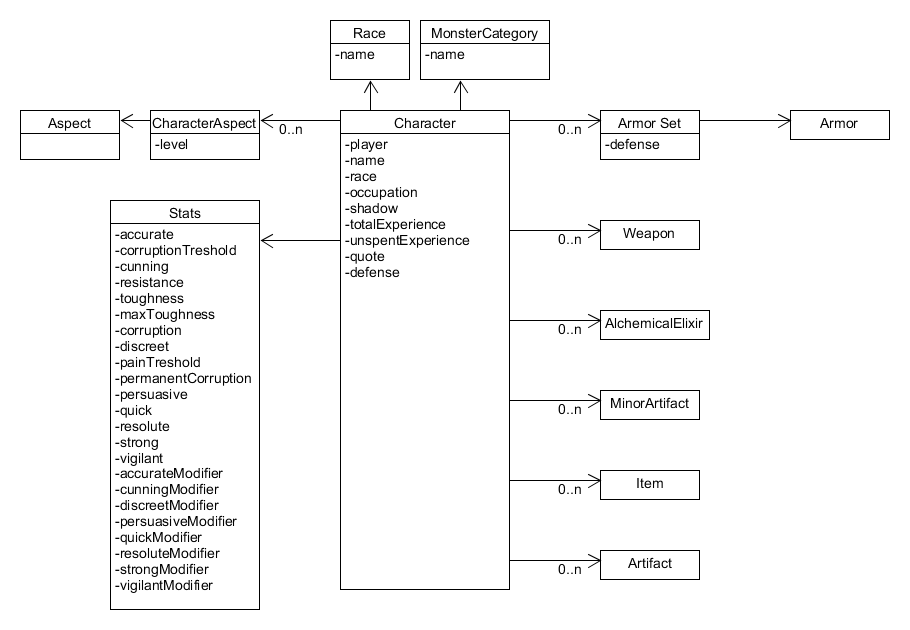
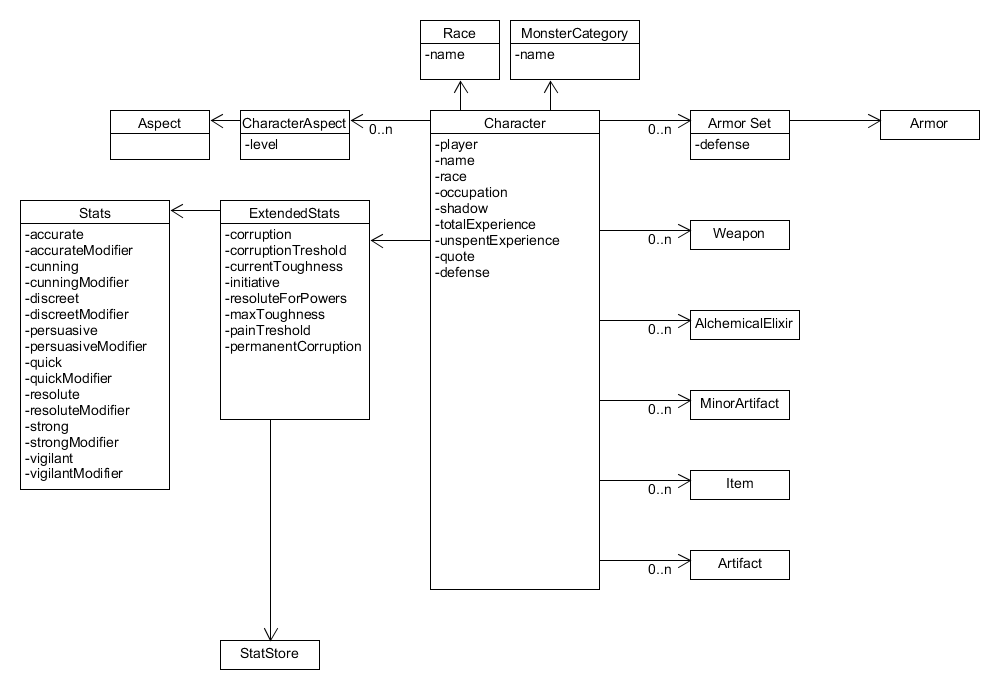
Updated stats docs

diff --git a/character/stats.md b/character/stats.md
@@ -43,19 +43,9 @@ Defense may be modified by more things than the armor, for example the robust tr
 
 These are the modifiers calculated from attributes.
 
-## Corruption
-
-* Permanent corruption
-
 ## Additional Stats
 
 These are not commented among the main attributes, but still are so important that all characters have it.
-
-### Armor
-
-The armor value depends on the armor used. But there are several sources for armor, such as traits, which can stack.
-
-Some of these sources are not real armor. For example robust ignores damage.
 
 ### Resolute for Powers
 
@@ -74,9 +64,21 @@ The following stats can be "spent", meaning they can have a maximum and a curren
 
 By default quick is used for initiative.
 
+### Corruption
+
+* Permanent corruption
+
 ## Dynamic Stats
 
 These depend on things such as abilities or equipment.
+
+Some of these values may appear several times.
+
+### Armor
+
+The armor value depends on the armor used. But there are several sources for armor, such as traits, which can stack.
+
+Some of these sources are not real armor. For example robust ignores damage.
 
 ### Damage Bonus
 
@@ -113,5 +115,3 @@ Some aspects may add additional attributes.
 ### Mystical Power Ability
 
 By default mystical powers are used with resolute modified by the armor encumbrance. Some aspects may change this formula. Some aspects may add additional attributes.
-
-

diff --git a/model/stats.md b/model/stats.md
@@ -10,3 +10,9 @@ There are these types of value:
 Direct values just contain a value.
 
 Derived values generate the value from another set.
+
+## Derived values
+
+* Modifiers (apply attribute modifier function)
+* Divided (divide the attribute)
+* Divided with minimum (divide, but there is a lower limit to the value)
